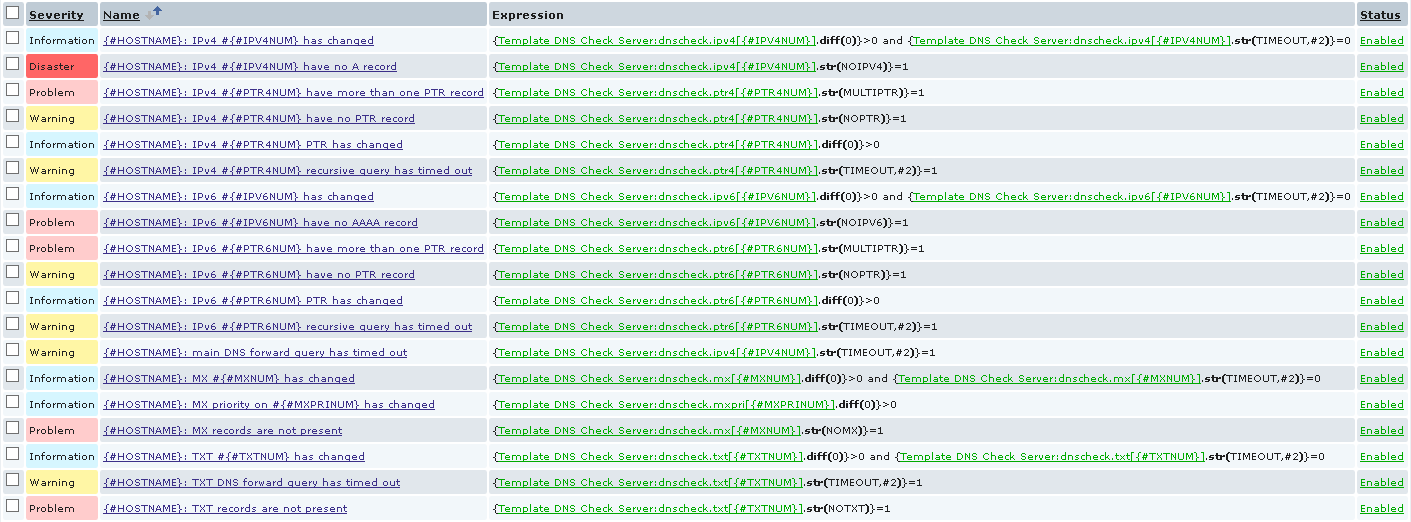
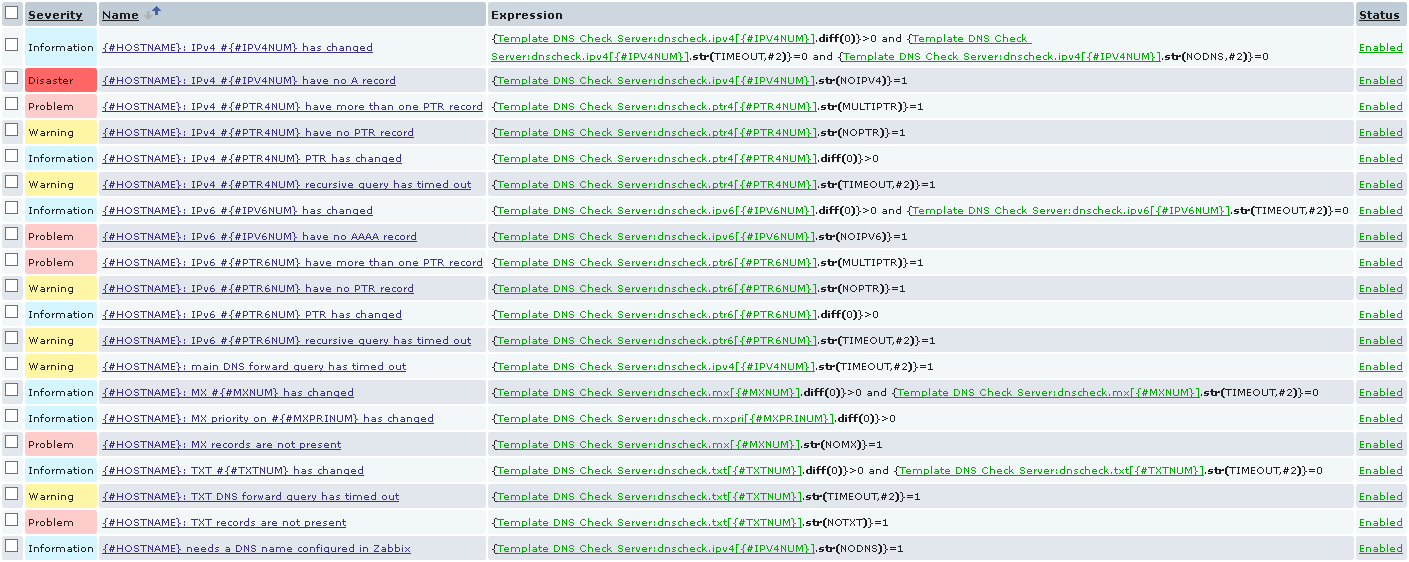
More compatible configuration, better error handling

Changed region(s): [[0.0, 0.3678, 0.9993, 1.0], [0.0, 0.0, 0.9993, 0.3372]]

diff --git a/externalscripts/dnscheck-gather-lld.py b/externalscripts/dnscheck-gather-lld.py
@@ -17,126 +17,140 @@ import re
 import json
 import subprocess
 
-hostname = sys.argv[2]
+hostdns = sys.argv[2]
+hosthost = sys.argv[3]
 
-ptrCheck = sys.argv[3]
-IPv6Check = sys.argv[4]
-mxCheck = sys.argv[5]
-txtCheck = sys.argv[6]
+ptrCheck = sys.argv[4]
+IPv6Check = sys.argv[5]
+mxCheck = sys.argv[6]
+txtCheck = sys.argv[7]
 
 jsonData = []
 senderData = []
 
-hostOut = subprocess.check_output([hostPath, '-W', dnsWait, hostname], universal_newlines=True)
+if re.search('^\d+\.\d+\.\d+\.\d+$', hostdns): 
+    print(sys.argv[0] + ": IP addresses are not supported as main input, a DNS name must be provided.")
+    sys.exit(1)
+
+hostOut = subprocess.getoutput(hostPath + ' -W ' +  dnsWait + ' ' + hostdns)
 
 ipv4Re = re.findall(r' has address (.+)$', hostOut, re.I | re.M)
 ipv4Re.sort()   # prevent ips mess up on each query
+error = 'no'
 
 if ipv4Re:
     for num4, ip4 in enumerate(ipv4Re, start=1):
         num4 = str(num4)
-        jsonData.append({'{#HOSTNAME}':hostname, '{#IPV4NUM}':num4})
-        senderData.append(hostname + ' dnscheck.ipv4[' + num4 + '] "' + ip4 + '"')   # example.org dnscheck.ipv4[1] "192.0.2.1"
+        jsonData.append({'{#HOSTNAME}':hosthost, '{#IPV4NUM}':num4})
+        senderData.append('"' + hosthost + '" dnscheck.ipv4[' + num4 + '] "' + ip4 + '"')   # "example.org" dnscheck.ipv4[1] "192.0.2.1"
 
         if ptrCheck == 'ptrYES':
-            hostPtr4Out = subprocess.check_output([hostPath, '-W', dnsWait, ip4], universal_newlines=True)
+            hostPtr4Out = subprocess.getoutput(hostPath + ' -W ' + dnsWait + ' ' + ip4)
 
             ptr4Re = re.findall(' domain name pointer (.+)$', hostPtr4Out, re.I | re.M)
 
             if ptr4Re:
                 for i in ptr4Re:
-                    jsonData.append({'{#HOSTNAME}':hostname, '{#PTR4NUM}':num4})
-                    senderData.append(hostname + ' dnscheck.ptr4[' + num4 + '] "' + i + '"')   # example.org dnscheck.ptr4[1] "example.org."
+                    jsonData.append({'{#HOSTNAME}':hosthost, '{#PTR4NUM}':num4})
+                    senderData.append('"' + hosthost + '" dnscheck.ptr4[' + num4 + '] "' + i + '"')   # "example.org" dnscheck.ptr4[1] "example.org."
 
                 if len(ptr4Re) > 1:   # if more than one PTR per IP were found
-                    jsonData.append({'{#HOSTNAME}':hostname, '{#PTR4NUM}':num4})
-                    senderData.append(hostname + ' dnscheck.ptr4[' + num4 + '] "MULTIPTR"')
+                    jsonData.append({'{#HOSTNAME}':hosthost, '{#PTR4NUM}':num4})
+                    senderData.append('"' + hosthost + '" dnscheck.ptr4[' + num4 + '] "MULTIPTR"')
 
             elif hostPtr4Out.find('no servers could be reached') != -1:
-                jsonData.append({'{#HOSTNAME}':hostname, '{#PTR4NUM}':num4})
-                senderData.append(hostname + ' dnscheck.ptr4[' + num4 + '] "TIMEOUT"')
+                jsonData.append({'{#HOSTNAME}':hosthost, '{#PTR4NUM}':num4})
+                senderData.append('"' + hosthost + '" dnscheck.ptr4[' + num4 + '] "TIMEOUT"')
 
             else:
-                jsonData.append({'{#HOSTNAME}':hostname, '{#PTR4NUM}':num4})
-                senderData.append(hostname + ' dnscheck.ptr4[' + num4 + '] "NOPTR"')
+                jsonData.append({'{#HOSTNAME}':hosthost, '{#PTR4NUM}':num4})
+                senderData.append('"' + hosthost + '" dnscheck.ptr4[' + num4 + '] "NOPTR"')
 
 elif hostOut.find('no servers could be reached') != -1:
-    jsonData.append({'{#HOSTNAME}':hostname, '{#IPV4NUM}':'1'})
-    senderData.append(hostname + ' dnscheck.ipv4[1] "TIMEOUT"')
+    jsonData.append({'{#HOSTNAME}':hosthost, '{#IPV4NUM}':'1'})
+    senderData.append('"' + hosthost + '" dnscheck.ipv4[1] "TIMEOUT"')
+
+    error = 'yes'   # do not process any other entry on error
+
+elif hostdns == '':
+    jsonData.append({'{#HOSTNAME}':hosthost, '{#IPV4NUM}':'1'})
+    senderData.append('"' + hosthost + '" dnscheck.ipv4[1] "NODNS"')
+
+    error = 'yes'
 
 else:
-    jsonData.append({'{#HOSTNAME}':hostname, '{#IPV4NUM}':'1'})
-    senderData.append(hostname + ' dnscheck.ipv4[1] "NOIPV4"')
+    jsonData.append({'{#HOSTNAME}':hosthost, '{#IPV4NUM}':'1'})
+    senderData.append('"' + hosthost + '" dnscheck.ipv4[1] "NOIPV4"')
 
 
-if IPv6Check == 'ipv6YES':
+if IPv6Check == 'ipv6YES' and error == 'no':
     ipv6Re = re.findall(' has IPv6 address (.+)$', hostOut, re.I | re.M)
     ipv6Re.sort()
 
     if ipv6Re:
         for num6, ip6 in enumerate(ipv6Re, start=1):
             num6 = str(num6)
-            jsonData.append({'{#HOSTNAME}':hostname, '{#IPV6NUM}':num6})
-            senderData.append(hostname + ' dnscheck.ipv6[' + num6 + '] "' + ip6 + '"')
+            jsonData.append({'{#HOSTNAME}':hosthost, '{#IPV6NUM}':num6})
+            senderData.append('"' + hosthost + '" dnscheck.ipv6[' + num6 + '] "' + ip6 + '"')
 
             if ptrCheck == 'ptrYES':
-                hostPtr6Out = subprocess.check_output([hostPath, '-W', dnsWait, ip6], universal_newlines=True)
+                hostPtr6Out = subprocess.getoutput(hostPath + ' -W ' + dnsWait + ' ' + ip6)
 
                 ptr6Re = re.findall(' domain name pointer (.+)$', hostPtr6Out, re.I | re.M)
 
                 if ptr6Re:
                     for i in ptr6Re:
-                        jsonData.append({'{#HOSTNAME}':hostname, '{#PTR6NUM}':num6})
-                        senderData.append(hostname + ' dnscheck.ptr6[' + num6 + '] "' + i + '"')
+                        jsonData.append({'{#HOSTNAME}':hosthost, '{#PTR6NUM}':num6})
+                        senderData.append('"' + hosthost + '" dnscheck.ptr6[' + num6 + '] "' + i + '"')
 
                     if len(ptr6Re) > 1:   # if more than one PTR per IP were found
-                        jsonData.append({'{#HOSTNAME}':hostname, '{#PTR6NUM}':num6})
-                        senderData.append(hostname + ' dnscheck.ptr6[' + num6 + '] "MULTIPTR"')
+                        jsonData.append({'{#HOSTNAME}':hosthost, '{#PTR6NUM}':num6})
+                        senderData.append('"' + hosthost + '" dnscheck.ptr6[' + num6 + '] "MULTIPTR"')
 
                 elif hostPtr6Out.find('no servers could be reached') != -1:
-                    jsonData.append({'{#HOSTNAME}':hostname, '{#PTR6NUM}':num6})
-                    senderData.append(hostname + ' dnscheck.ptr6[' + num6 + '] "TIMEOUT"')
+                    jsonData.append({'{#HOSTNAME}':hosthost, '{#PTR6NUM}':num6})
+                    senderData.append('"' + hosthost + '" dnscheck.ptr6[' + num6 + '] "TIMEOUT"')
 
                 else:
-                    jsonData.append({'{#HOSTNAME}':hostname, '{#PTR6NUM}':num6})
-                    senderData.append(hostname + ' dnscheck.ptr6[' + num6 + '] "NOPTR"')
+                    jsonData.append({'{#HOSTNAME}':hosthost, '{#PTR6NUM}':num6})
+                    senderData.append('"' + hosthost + '" dnscheck.ptr6[' + num6 + '] "NOPTR"')
 
     elif hostOut.find('no servers could be reached') != -1:
-        jsonData.append({'{#HOSTNAME}':hostname, '{#IPV6NUM}':'1'})
-        senderData.append(hostname + ' dnscheck.ipv6[1] "TIMEOUT"')
+        jsonData.append({'{#HOSTNAME}':hosthost, '{#IPV6NUM}':'1'})
+        senderData.append('"' + hosthost + '" dnscheck.ipv6[1] "TIMEOUT"')
 
     else:
-        jsonData.append({'{#HOSTNAME}':hostname, '{#IPV6NUM}':'1'})
-        senderData.append(hostname + ' dnscheck.ipv6[1] "NOIPV6"')
+        jsonData.append({'{#HOSTNAME}':hosthost, '{#IPV6NUM}':'1'})
+        senderData.append('"' + hosthost + '" dnscheck.ipv6[1] "NOIPV6"')
 
 
-if mxCheck == 'mxYES':
+if mxCheck == 'mxYES' and error == 'no':
     mxRe = re.findall(r' mail is handled by\s+(\d+)\s+(.+)$', hostOut, re.I | re.M)
     mxRe.sort()
 
     if mxRe:
         for numMX, (valMXpri, valMX) in enumerate(mxRe, start=1):
             numMX = str(numMX)
-            jsonData.append({'{#HOSTNAME}':hostname, '{#MXNUM}':numMX})
-            senderData.append(hostname + ' dnscheck.mx[' + numMX + '] "' + valMX + '"')
-            jsonData.append({'{#HOSTNAME}':hostname, '{#MXPRINUM}':numMX})
-            senderData.append(hostname + ' dnscheck.mxpri[' + numMX + '] "' + valMXpri + '"')
+            jsonData.append({'{#HOSTNAME}':hosthost, '{#MXNUM}':numMX})
+            senderData.append('"' + hosthost + '" dnscheck.mx[' + numMX + '] "' + valMX + '"')
+            jsonData.append({'{#HOSTNAME}':hosthost, '{#MXPRINUM}':numMX})
+            senderData.append('"' + hosthost + '" dnscheck.mxpri[' + numMX + '] "' + valMXpri + '"')
 
     elif hostOut.find('no servers could be reached') != -1:
-        jsonData.append({'{#HOSTNAME}':hostname, '{#MXNUM}':'1'})
-        senderData.append(hostname + ' dnscheck.mx[1] "TIMEOUT"')
-        #jsonData.append({'{#HOSTNAME}':hostname, '{#MXPRINUM}':'1'})   # priority is not gathered when no MX is present
-        #senderData.append(hostname + ' dnscheck.mxpri[1] "TIMEOUT"')
+        jsonData.append({'{#HOSTNAME}':hosthost, '{#MXNUM}':'1'})
+        senderData.append('"' + hosthost + '" dnscheck.mx[1] "TIMEOUT"')
+        #jsonData.append({'{#HOSTNAME}':hosthost, '{#MXPRINUM}':'1'})   # priority is not gathered when no MX is present
+        #senderData.append('"' + hosthost + '" dnscheck.mxpri[1] "TIMEOUT"')
 
     else:
-        jsonData.append({'{#HOSTNAME}':hostname, '{#MXNUM}':'1'})
-        senderData.append(hostname + ' dnscheck.mx[1] "NOMX"')
-        #jsonData.append({'{#HOSTNAME}':hostname, '{#MXPRINUM}':'1'})
-        #senderData.append(hostname + ' dnscheck.mxpri[1] "NOMX"')
+        jsonData.append({'{#HOSTNAME}':hosthost, '{#MXNUM}':'1'})
+        senderData.append('"' + hosthost + '" dnscheck.mx[1] "NOMX"')
+        #jsonData.append({'{#HOSTNAME}':hosthost, '{#MXPRINUM}':'1'})
+        #senderData.append('"' + hosthost + '" dnscheck.mxpri[1] "NOMX"')
 
 
-if txtCheck == 'txtYES':
-    txtOut = subprocess.check_output([hostPath, '-W', dnsWait, '-t', 'txt', hostname], universal_newlines=True)
+if txtCheck == 'txtYES' and error == 'no':
+    txtOut = subprocess.getoutput(hostPath + ' -W ' + dnsWait + ' -t txt ' + hostdns)
 
     txtRe = re.findall(' descriptive text (.+)$', txtOut, re.I | re.M)
     txtRe.sort()
@@ -147,16 +161,16 @@ if txtCheck == 'txtYES':
                 valTxt = '"' + valTxt + '"'
 
             numTxt = str(numTxt)
-            jsonData.append({'{#HOSTNAME}':hostname, '{#TXTNUM}':numTxt})
-            senderData.append(hostname + ' dnscheck.txt[' + numTxt + '] ' + valTxt)
+            jsonData.append({'{#HOSTNAME}':hosthost, '{#TXTNUM}':numTxt})
+            senderData.append('"' + hosthost + '" dnscheck.txt[' + numTxt + '] ' + valTxt)
 
     elif hostOut.find('no servers could be reached') != -1:
-        jsonData.append({'{#HOSTNAME}':hostname, '{#TXTNUM}':'1'})
-        senderData.append(hostname + ' dnscheck.txt[1] "TIMEOUT"')
+        jsonData.append({'{#HOSTNAME}':hosthost, '{#TXTNUM}':'1'})
+        senderData.append('"' + hosthost + '" dnscheck.txt[1] "TIMEOUT"')
 
     else:
-        jsonData.append({'{#HOSTNAME}':hostname, '{#TXTNUM}':'1'})
-        senderData.append(hostname + ' dnscheck.txt[1] "NOTXT"')
+        jsonData.append({'{#HOSTNAME}':hosthost, '{#TXTNUM}':'1'})
+        senderData.append('"' + hosthost + '" dnscheck.txt[1] "NOTXT"')
 
 
 print(json.dumps({"data": jsonData}, indent=4))   # print json for LLD
